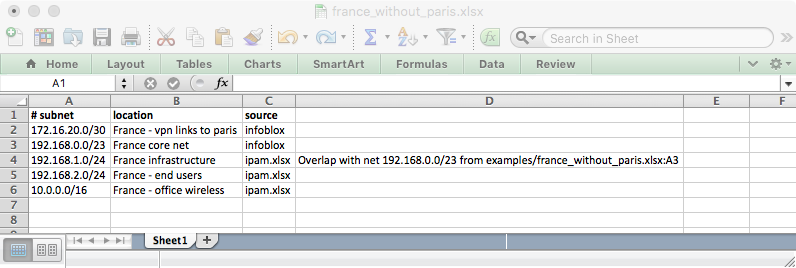
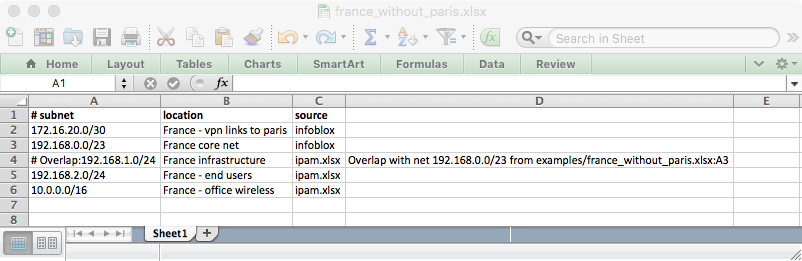
hashed network column

Changed region(s): [[0.0, 0.092, 1.0, 0.9808], [0.9648, 0.1226, 0.995, 0.1533]]

diff --git a/intersection.py b/intersection.py
@@ -7,6 +7,7 @@ parser = optparse.OptionParser(usage="Usage: %prog [OPTION]... <EXCEl_SPREADSHEE
 	epilog='Open Source MIT License. Written by Christian Angerbjorn')
 parser.add_option("-n", "--network", default='A', help="Network data column")
 parser.add_option("-c", "--comment", default='D', help="Uniqueness comment column")
+parser.add_option("-C", "--clear", action="store_true", help="Remove all overlap comment and exit")
 parser.add_option("-s", "--stats",  action="store_true", help="Show stats on how many unique IP addresses found.")
 parser.add_option("-r", "--read-only",  action="store_true", default=False, help="Open spreadsheets as read-only")
 (ops, args) = parser.parse_args()
@@ -14,40 +15,51 @@ parser.add_option("-r", "--read-only",  action="store_true", default=False, help
 if len(args) == 0:
 	parser.error("At least one excel .xlsx file is required!")
 
+hashTag = "# Overlap:"
+excelTag = "Overlap with net"
+
 nets = []  # list of ipaddress.ip_network(  )
 directory = {}  # map of ipaddress.ip_network() : 'excel:cell'
 for excel in args:
 	wb = load_workbook( filename = excel, read_only=ops.read_only)
 	for sheet in wb:
 		for i, row in enumerate(sheet.iter_rows()):
-			data = row[ ord(ops.network.upper())-65 ].value
-			this_address = '%s:%s%d' %(excel, ops.network.upper(), i+1 )
-			try:
-				n = ipaddress.ip_network( data )
-			except ValueError as err:
-				if i and not data.startswith('#'): # first line assumed to be a header...
-					print( "Warning: Cell %s%d value '%s' is not recognised as a IPv4 net." %(ops.network, i+1, data))
-				continue
-
-			# check if this net overlap any existing:
-			overlap = False
-			for net in nets:
-				if net.overlaps( n ):
-					overlap = True
-					# check not overwrting data:
-					if sheet[ ops.comment + str(i+1) ].value and not sheet[ ops.comment + str(i+1) ].value.startswith("Overlap with net"):
-						print("Warning: existing data in cell '%s', will not overwrite! %s overlap with net %s cell %s" %(this_address, data, net, directory[ net ]))
-					else:
-						if not ops.read_only:
-							sheet[ ops.comment + str(i+1) ] = "Overlap with net %s from %s" %(net, directory[ net ])
-						print("  %s -> %s  %s -> %s" %( data, net, this_address, directory[ net ] ))
-					break
-			# clear previous comment 
-			if not overlap and not ops.read_only and sheet[ ops.comment + str(i+1) ].value and sheet[ ops.comment + str(i+1) ].value.startswith("Overlap with net"):
-				sheet[ ops.comment + str(i+1) ].value = ''
-				
-			nets.append( n )
-			directory[ n ] = this_address
+			# remove any hashTag comments first.
+			if not ops.read_only and sheet[ ops.network + str(i+1) ].value and sheet[ ops.network + str(i+1) ].value.startswith(hashTag):
+				sheet[ ops.network + str(i+1) ].value = sheet[ ops.network + str(i+1) ].value[len(hashTag) : ] # remove # overlap at begening of string
+			if  ops.clear:
+				if not ops.read_only and sheet[ ops.comment + str(i+1) ].value and sheet[ ops.comment + str(i+1) ].value.startswith(excelTag):
+					sheet[ ops.comment + str(i+1) ].value = ''
+			else:
+				data = row[ ord(ops.network.upper())-65 ].value
+				this_address = '%s:%s%d' %(excel, ops.network.upper(), i+1 )
+				try:
+					n = ipaddress.ip_network( data )
+				except ValueError as err:
+					if i and not data.startswith('#'): # first line assumed to be a header...
+						print( "Warning: Cell %s%d value '%s' is not recognised as a IPv4 net." %(ops.network, i+1, data))
+					continue
+	
+				# check if this net overlap any existing:
+				overlap = False
+				for net in nets:
+					if net.overlaps( n ):
+						overlap = True
+						# check not overwrting data:
+						if sheet[ ops.comment + str(i+1) ].value and not sheet[ ops.comment + str(i+1) ].value.startswith(excelTag):
+							print("Warning: existing data in cell '%s', will not overwrite! %s overlap with net %s cell %s" %(this_address, data, net, directory[ net ]))
+						else:
+							if not ops.read_only:
+								sheet[ ops.comment + str(i+1) ] = "%s %s from %s" %(excelTag, net, directory[ net ])
+								sheet[ ops.network + str(i+1) ] = hashTag + sheet[ ops.network + str(i+1) ].value 
+							print("  %s -> %s  %s -> %s" %( data, net, this_address, directory[ net ] ))
+						break
+				# clear previous comment 
+				if not overlap and not ops.read_only and sheet[ ops.comment + str(i+1) ].value and sheet[ ops.comment + str(i+1) ].value.startswith(excelTag):
+					sheet[ ops.comment + str(i+1) ].value = ''
+					
+				nets.append( n )
+				directory[ n ] = this_address
 	if not ops.read_only:
 		wb.save(filename = excel)
 	
